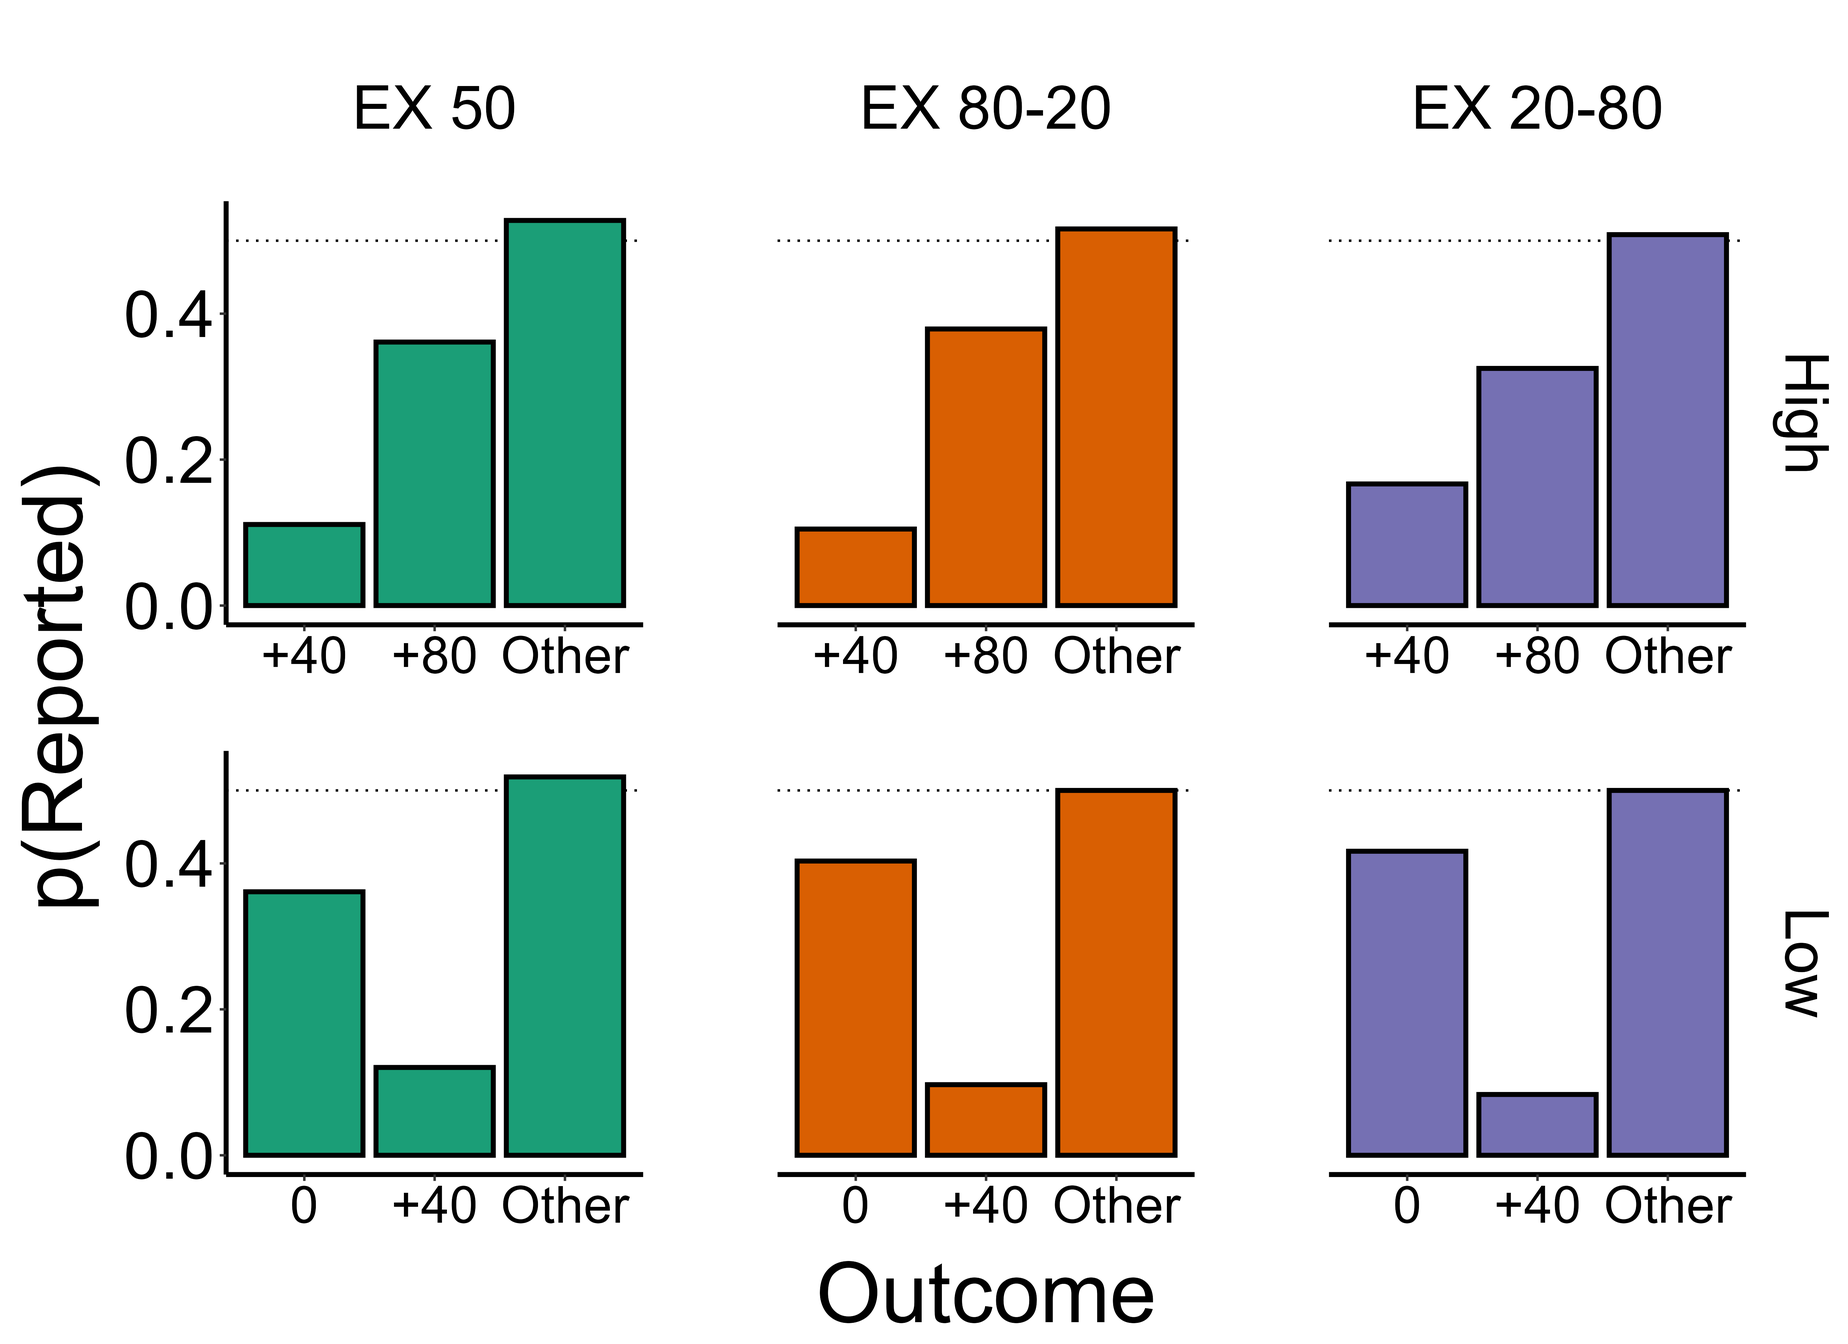
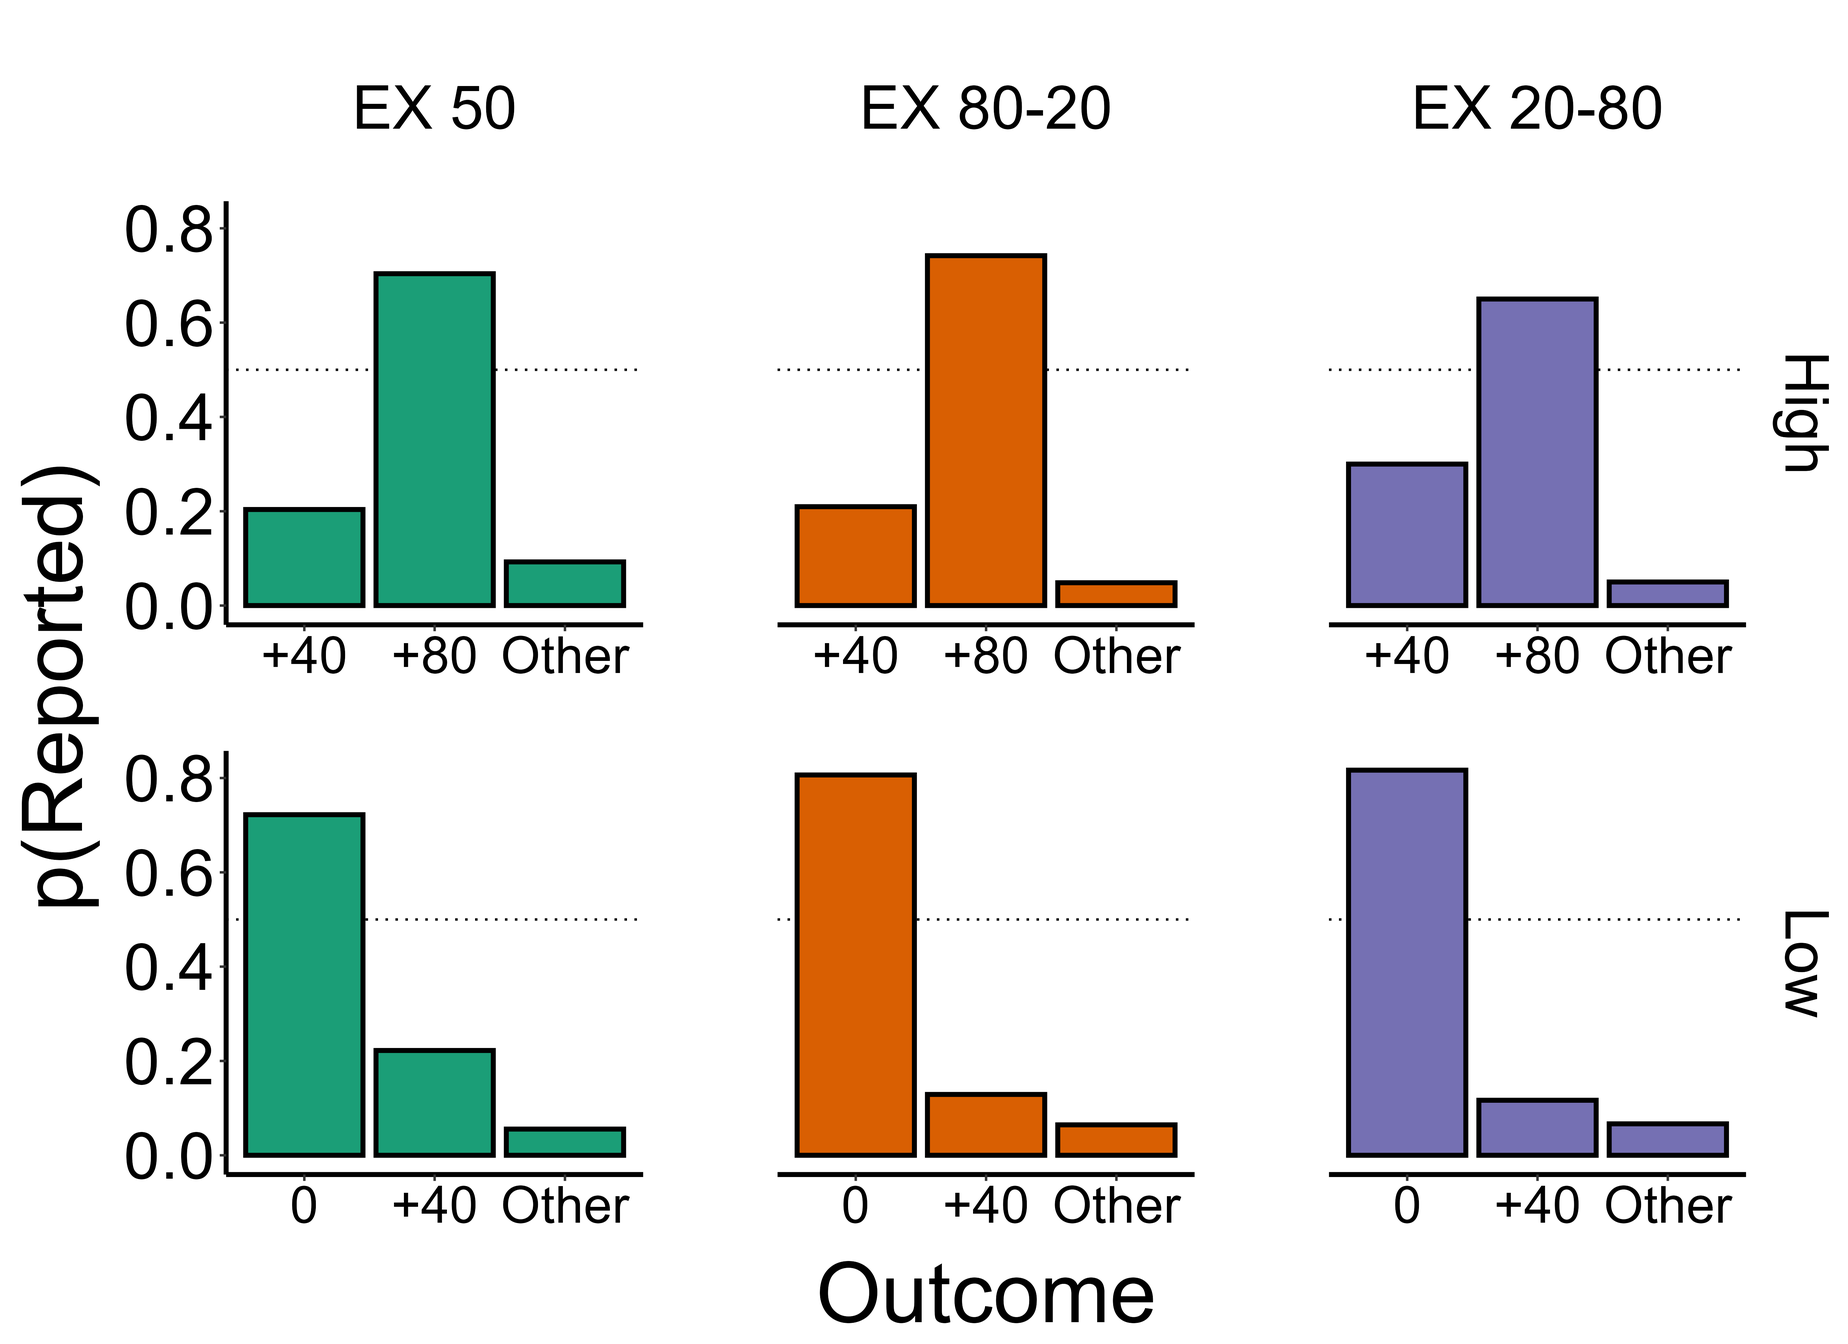
Removed fixed doors from first outcome judgements.

diff --git a/win-big-results-2024-07-16.html b/win-big-results-2024-07-16.html
@@ -2747,9 +2747,6 @@ Plot - Block means with 95% CIs
 <summary>
 Plot - Interaction plot with 95% CIs
 </summary>
-<ul>
-<li>Showing the combined effect of block 5 and 6.</li>
-</ul>
 <p><br></p>
 <p><svg id="svg_2b19707982898087ce18" width="100%" height="100%" class="svglite" viewBox="0 0 648.00 504.00">
 <defs>
@@ -2849,9 +2846,6 @@ Plot - Interaction plot with 95% CIs
 <summary>
 Main Effects
 </summary>
-<ul>
-<li>Note: Analysis was conducted on the results of block 5 and 6.</li>
-</ul>
 <h4>
 ANOVA Table
 </h4>
@@ -3035,9 +3029,6 @@ effect):</strong></p>
 <summary>
 Planned Comparisons
 </summary>
-<ul>
-<li>Note: Analysis was conducted on the results of block 5 and 6.</li>
-</ul>
 <h4>
 ANOVA Table
 </h4>
@@ -3249,6 +3240,8 @@ vs. Low):</strong></p>
 Notes
 </summary>
 <ul>
+<li>All plots and analyses are showing the combined effect of block 5
+and 6.</li>
 <li>Bayes Factors are reported as Inverse Bayes Factors, this means
 larger values indicate greater support for the effect. Anything less
 than 1 should be considered as contributing no evidence.</li>
@@ -3267,7 +3260,7 @@ than 1 should be considered as contributing no evidence.</li>
 Plot - Proportions
 </summary>
 <p><br></p>
-<p><svg id="svg_87735d77c41ec51b849d" width="100%" height="100%" class="svglite" viewBox="0 0 792.00 576.00">
+<p><svg id="svg_f47494b66cd92cdfc49c" width="100%" height="100%" class="svglite" viewBox="0 0 792.00 576.00">
 <defs>
   <style type="text/css">
     .svglite line, .svglite polyline, .svglite polygon, .svglite path, .svglite rect, .svglite circle {
@@ -3284,7 +3277,7 @@ Plot - Proportions
 </defs>
 <rect width="100%" height="100%" style="stroke: none; fill: #FFFFFF;" />
 <defs>
-  <clipPath id="svg_87735d77c41ec51b849d_cpMC4wMHw3OTIuMDB8MC4wMHw1NzYuMDA=">
+  <clipPath id="svg_f47494b66cd92cdfc49c_cpMC4wMHw3OTIuMDB8MC4wMHw1NzYuMDA=">
     <rect x="0.00" y="0.00" width="792.00" height="576.00" />
   </clipPath>
 </defs>
@@ -3292,91 +3285,91 @@ Plot - Proportions
 <rect x="0.00" y="0.00" width="792.00" height="576.00" style="stroke-width: 1.07; stroke: #FFFFFF; fill: #FFFFFF;" />
 </g>
 <defs>
-  <clipPath id="svg_87735d77c41ec51b849d_cpOTYuODZ8Mjc1LjYwfDg2LjI2fDI2Ny43NA==">
+  <clipPath id="svg_f47494b66cd92cdfc49c_cpOTYuODZ8Mjc1LjYwfDg2LjI2fDI2Ny43NA==">
     <rect x="96.86" y="86.26" width="178.73" height="181.48" />
   </clipPath>
 </defs>
 <g clip-path="url(#cpOTYuODZ8Mjc1LjYwfDg2LjI2fDI2Ny43NA==)">
 <rect x="96.86" y="86.26" width="178.73" height="181.48" style="stroke-width: 1.07; stroke: none; fill: #FFFFFF;" />
-<line x1="96.86" y1="103.19" x2="275.60" y2="103.19" style="stroke-width: 1.07; stroke-dasharray: 1.42,4.27; stroke-linecap: butt;"></line>
-<rect x="105.24" y="224.75" width="50.27" height="34.73" style="stroke-width: 2.13; stroke-linecap: butt; stroke-linejoin: miter; fill: #1B9E77;" />
-<rect x="161.10" y="146.60" width="50.27" height="112.88" style="stroke-width: 2.13; stroke-linecap: butt; stroke-linejoin: miter; fill: #1B9E77;" />
-<rect x="216.95" y="94.51" width="50.27" height="164.98" style="stroke-width: 2.13; stroke-linecap: butt; stroke-linejoin: miter; fill: #1B9E77;" />
+<line x1="96.86" y1="158.48" x2="275.60" y2="158.48" style="stroke-width: 1.07; stroke-dasharray: 1.42,4.27; stroke-linecap: butt;"></line>
+<rect x="105.24" y="218.33" width="50.27" height="41.15" style="stroke-width: 2.13; stroke-linecap: butt; stroke-linejoin: miter; fill: #1B9E77;" />
+<rect x="161.10" y="117.33" width="50.27" height="142.16" style="stroke-width: 2.13; stroke-linecap: butt; stroke-linejoin: miter; fill: #1B9E77;" />
+<rect x="216.95" y="240.78" width="50.27" height="18.71" style="stroke-width: 2.13; stroke-linecap: butt; stroke-linejoin: miter; fill: #1B9E77;" />
 </g>
 <g clip-path="url(#cpMC4wMHw3OTIuMDB8MC4wMHw1NzYuMDA=)">
 </g>
 <defs>
-  <clipPath id="svg_87735d77c41ec51b849d_cpMzMzLjIwfDUxMS45M3w4Ni4yNnwyNjcuNzQ=">
+  <clipPath id="svg_f47494b66cd92cdfc49c_cpMzMzLjIwfDUxMS45M3w4Ni4yNnwyNjcuNzQ=">
     <rect x="333.20" y="86.26" width="178.73" height="181.48" />
   </clipPath>
 </defs>
 <g clip-path="url(#cpMzMzLjIwfDUxMS45M3w4Ni4yNnwyNjcuNzQ=)">
 <rect x="333.20" y="86.26" width="178.73" height="181.48" style="stroke-width: 1.07; stroke: none; fill: #FFFFFF;" />
-<line x1="333.20" y1="103.19" x2="511.93" y2="103.19" style="stroke-width: 1.07; stroke-dasharray: 1.42,4.27; stroke-linecap: butt;"></line>
-<rect x="341.58" y="226.71" width="50.27" height="32.77" style="stroke-width: 2.13; stroke-linecap: butt; stroke-linejoin: miter; fill: #D95F02;" />
-<rect x="397.43" y="141.00" width="50.27" height="118.48" style="stroke-width: 2.13; stroke-linecap: butt; stroke-linejoin: miter; fill: #D95F02;" />
-<rect x="453.28" y="98.15" width="50.27" height="161.34" style="stroke-width: 2.13; stroke-linecap: butt; stroke-linejoin: miter; fill: #D95F02;" />
+<line x1="333.20" y1="158.48" x2="511.93" y2="158.48" style="stroke-width: 1.07; stroke-dasharray: 1.42,4.27; stroke-linecap: butt;"></line>
+<rect x="341.58" y="217.13" width="50.27" height="42.36" style="stroke-width: 2.13; stroke-linecap: butt; stroke-linejoin: miter; fill: #D95F02;" />
+<rect x="397.43" y="109.60" width="50.27" height="149.88" style="stroke-width: 2.13; stroke-linecap: butt; stroke-linejoin: miter; fill: #D95F02;" />
+<rect x="453.28" y="249.71" width="50.27" height="9.78" style="stroke-width: 2.13; stroke-linecap: butt; stroke-linejoin: miter; fill: #D95F02;" />
 </g>
 <g clip-path="url(#cpMC4wMHw3OTIuMDB8MC4wMHw1NzYuMDA=)">
 </g>
 <defs>
-  <clipPath id="svg_87735d77c41ec51b849d_cpNTY5LjUzfDc0OC4yNnw4Ni4yNnwyNjcuNzQ=">
+  <clipPath id="svg_f47494b66cd92cdfc49c_cpNTY5LjUzfDc0OC4yNnw4Ni4yNnwyNjcuNzQ=">
     <rect x="569.53" y="86.26" width="178.73" height="181.48" />
   </clipPath>
 </defs>
 <g clip-path="url(#cpNTY5LjUzfDc0OC4yNnw4Ni4yNnwyNjcuNzQ=)">
 <rect x="569.53" y="86.26" width="178.73" height="181.48" style="stroke-width: 1.07; stroke: none; fill: #FFFFFF;" />
-<line x1="569.53" y1="103.19" x2="748.26" y2="103.19" style="stroke-width: 1.07; stroke-dasharray: 1.42,4.27; stroke-linecap: butt;"></line>
-<rect x="577.91" y="207.39" width="50.27" height="52.10" style="stroke-width: 2.13; stroke-linecap: butt; stroke-linejoin: miter; fill: #7570B3;" />
-<rect x="633.76" y="157.89" width="50.27" height="101.59" style="stroke-width: 2.13; stroke-linecap: butt; stroke-linejoin: miter; fill: #7570B3;" />
-<rect x="689.62" y="100.58" width="50.27" height="158.90" style="stroke-width: 2.13; stroke-linecap: butt; stroke-linejoin: miter; fill: #7570B3;" />
+<line x1="569.53" y1="158.48" x2="748.26" y2="158.48" style="stroke-width: 1.07; stroke-dasharray: 1.42,4.27; stroke-linecap: butt;"></line>
+<rect x="577.91" y="198.88" width="50.27" height="60.61" style="stroke-width: 2.13; stroke-linecap: butt; stroke-linejoin: miter; fill: #7570B3;" />
+<rect x="633.76" y="128.18" width="50.27" height="131.31" style="stroke-width: 2.13; stroke-linecap: butt; stroke-linejoin: miter; fill: #7570B3;" />
+<rect x="689.62" y="249.39" width="50.27" height="10.10" style="stroke-width: 2.13; stroke-linecap: butt; stroke-linejoin: miter; fill: #7570B3;" />
 </g>
 <g clip-path="url(#cpMC4wMHw3OTIuMDB8MC4wMHw1NzYuMDA=)">
 </g>
 <defs>
-  <clipPath id="svg_87735d77c41ec51b849d_cpOTYuODZ8Mjc1LjYwfDMyMS44Nnw1MDMuMzQ=">
+  <clipPath id="svg_f47494b66cd92cdfc49c_cpOTYuODZ8Mjc1LjYwfDMyMS44Nnw1MDMuMzQ=">
     <rect x="96.86" y="321.86" width="178.73" height="181.48" />
   </clipPath>
 </defs>
 <g clip-path="url(#cpOTYuODZ8Mjc1LjYwfDMyMS44Nnw1MDMuMzQ=)">
 <rect x="96.86" y="321.86" width="178.73" height="181.48" style="stroke-width: 1.07; stroke: none; fill: #FFFFFF;" />
-<line x1="96.86" y1="338.79" x2="275.60" y2="338.79" style="stroke-width: 1.07; stroke-dasharray: 1.42,4.27; stroke-linecap: butt;"></line>
-<rect x="161.10" y="457.46" width="50.27" height="37.63" style="stroke-width: 2.13; stroke-linecap: butt; stroke-linejoin: miter; fill: #1B9E77;" />
-<rect x="105.24" y="382.21" width="50.27" height="112.88" style="stroke-width: 2.13; stroke-linecap: butt; stroke-linejoin: miter; fill: #1B9E77;" />
-<rect x="216.95" y="333.00" width="50.27" height="162.09" style="stroke-width: 2.13; stroke-linecap: butt; stroke-linejoin: miter; fill: #1B9E77;" />
+<line x1="96.86" y1="394.08" x2="275.60" y2="394.08" style="stroke-width: 1.07; stroke-dasharray: 1.42,4.27; stroke-linecap: butt;"></line>
+<rect x="161.10" y="450.20" width="50.27" height="44.89" style="stroke-width: 2.13; stroke-linecap: butt; stroke-linejoin: miter; fill: #1B9E77;" />
+<rect x="105.24" y="349.19" width="50.27" height="145.90" style="stroke-width: 2.13; stroke-linecap: butt; stroke-linejoin: miter; fill: #1B9E77;" />
+<rect x="216.95" y="483.86" width="50.27" height="11.22" style="stroke-width: 2.13; stroke-linecap: butt; stroke-linejoin: miter; fill: #1B9E77;" />
 </g>
 <g clip-path="url(#cpMC4wMHw3OTIuMDB8MC4wMHw1NzYuMDA=)">
 </g>
 <defs>
-  <clipPath id="svg_87735d77c41ec51b849d_cpMzMzLjIwfDUxMS45M3wzMjEuODZ8NTAzLjM0">
+  <clipPath id="svg_f47494b66cd92cdfc49c_cpMzMzLjIwfDUxMS45M3wzMjEuODZ8NTAzLjM0">
     <rect x="333.20" y="321.86" width="178.73" height="181.48" />
   </clipPath>
 </defs>
 <g clip-path="url(#cpMzMzLjIwfDUxMS45M3wzMjEuODZ8NTAzLjM0)">
 <rect x="333.20" y="321.86" width="178.73" height="181.48" style="stroke-width: 1.07; stroke: none; fill: #FFFFFF;" />
-<line x1="333.20" y1="338.79" x2="511.93" y2="338.79" style="stroke-width: 1.07; stroke-dasharray: 1.42,4.27; stroke-linecap: butt;"></line>
-<rect x="397.43" y="464.84" width="50.27" height="30.25" style="stroke-width: 2.13; stroke-linecap: butt; stroke-linejoin: miter; fill: #D95F02;" />
-<rect x="341.58" y="369.04" width="50.27" height="126.05" style="stroke-width: 2.13; stroke-linecap: butt; stroke-linejoin: miter; fill: #D95F02;" />
-<rect x="453.28" y="338.79" width="50.27" height="156.30" style="stroke-width: 2.13; stroke-linecap: butt; stroke-linejoin: miter; fill: #D95F02;" />
+<line x1="333.20" y1="394.08" x2="511.93" y2="394.08" style="stroke-width: 1.07; stroke-dasharray: 1.42,4.27; stroke-linecap: butt;"></line>
+<rect x="397.43" y="469.02" width="50.27" height="26.07" style="stroke-width: 2.13; stroke-linecap: butt; stroke-linejoin: miter; fill: #D95F02;" />
+<rect x="341.58" y="332.17" width="50.27" height="162.92" style="stroke-width: 2.13; stroke-linecap: butt; stroke-linejoin: miter; fill: #D95F02;" />
+<rect x="453.28" y="482.05" width="50.27" height="13.03" style="stroke-width: 2.13; stroke-linecap: butt; stroke-linejoin: miter; fill: #D95F02;" />
 </g>
 <g clip-path="url(#cpMC4wMHw3OTIuMDB8MC4wMHw1NzYuMDA=)">
 </g>
 <defs>
-  <clipPath id="svg_87735d77c41ec51b849d_cpNTY5LjUzfDc0OC4yNnwzMjEuODZ8NTAzLjM0">
+  <clipPath id="svg_f47494b66cd92cdfc49c_cpNTY5LjUzfDc0OC4yNnwzMjEuODZ8NTAzLjM0">
     <rect x="569.53" y="321.86" width="178.73" height="181.48" />
   </clipPath>
 </defs>
 <g clip-path="url(#cpNTY5LjUzfDc0OC4yNnwzMjEuODZ8NTAzLjM0)">
 <rect x="569.53" y="321.86" width="178.73" height="181.48" style="stroke-width: 1.07; stroke: none; fill: #FFFFFF;" />
-<line x1="569.53" y1="338.79" x2="748.26" y2="338.79" style="stroke-width: 1.07; stroke-dasharray: 1.42,4.27; stroke-linecap: butt;"></line>
-<rect x="633.76" y="469.04" width="50.27" height="26.05" style="stroke-width: 2.13; stroke-linecap: butt; stroke-linejoin: miter; fill: #7570B3;" />
-<rect x="577.91" y="364.84" width="50.27" height="130.25" style="stroke-width: 2.13; stroke-linecap: butt; stroke-linejoin: miter; fill: #7570B3;" />
-<rect x="689.62" y="338.79" width="50.27" height="156.30" style="stroke-width: 2.13; stroke-linecap: butt; stroke-linejoin: miter; fill: #7570B3;" />
+<line x1="569.53" y1="394.08" x2="748.26" y2="394.08" style="stroke-width: 1.07; stroke-dasharray: 1.42,4.27; stroke-linecap: butt;"></line>
+<rect x="633.76" y="471.52" width="50.27" height="23.57" style="stroke-width: 2.13; stroke-linecap: butt; stroke-linejoin: miter; fill: #7570B3;" />
+<rect x="577.91" y="330.11" width="50.27" height="164.98" style="stroke-width: 2.13; stroke-linecap: butt; stroke-linejoin: miter; fill: #7570B3;" />
+<rect x="689.62" y="481.62" width="50.27" height="13.47" style="stroke-width: 2.13; stroke-linecap: butt; stroke-linejoin: miter; fill: #7570B3;" />
 </g>
 <g clip-path="url(#cpMC4wMHw3OTIuMDB8MC4wMHw1NzYuMDA=)">
 </g>
 <defs>
-  <clipPath id="svg_87735d77c41ec51b849d_cpOTYuODZ8Mjc1LjYwfDUuNDh8ODYuMjY=">
+  <clipPath id="svg_f47494b66cd92cdfc49c_cpOTYuODZ8Mjc1LjYwfDUuNDh8ODYuMjY=">
     <rect x="96.86" y="5.48" width="178.73" height="80.78" />
   </clipPath>
 </defs>
@@ -3387,7 +3380,7 @@ Plot - Proportions
 <g clip-path="url(#cpMC4wMHw3OTIuMDB8MC4wMHw1NzYuMDA=)">
 </g>
 <defs>
-  <clipPath id="svg_87735d77c41ec51b849d_cpMzMzLjIwfDUxMS45M3w1LjQ4fDg2LjI2">
+  <clipPath id="svg_f47494b66cd92cdfc49c_cpMzMzLjIwfDUxMS45M3w1LjQ4fDg2LjI2">
     <rect x="333.20" y="5.48" width="178.73" height="80.78" />
   </clipPath>
 </defs>
@@ -3398,7 +3391,7 @@ Plot - Proportions
 <g clip-path="url(#cpMC4wMHw3OTIuMDB8MC4wMHw1NzYuMDA=)">
 </g>
 <defs>
-  <clipPath id="svg_87735d77c41ec51b849d_cpNTY5LjUzfDc0OC4yNnw1LjQ4fDg2LjI2">
+  <clipPath id="svg_f47494b66cd92cdfc49c_cpNTY5LjUzfDc0OC4yNnw1LjQ4fDg2LjI2">
     <rect x="569.53" y="5.48" width="178.73" height="80.78" />
   </clipPath>
 </defs>
@@ -3409,7 +3402,7 @@ Plot - Proportions
 <g clip-path="url(#cpMC4wMHw3OTIuMDB8MC4wMHw1NzYuMDA=)">
 </g>
 <defs>
-  <clipPath id="svg_87735d77c41ec51b849d_cpNzQ4LjI2fDc4Ni41Mnw4Ni4yNnwyNjcuNzQ=">
+  <clipPath id="svg_f47494b66cd92cdfc49c_cpNzQ4LjI2fDc4Ni41Mnw4Ni4yNnwyNjcuNzQ=">
     <rect x="748.26" y="86.26" width="38.26" height="181.48" />
   </clipPath>
 </defs>
@@ -3420,7 +3413,7 @@ Plot - Proportions
 <g clip-path="url(#cpMC4wMHw3OTIuMDB8MC4wMHw1NzYuMDA=)">
 </g>
 <defs>
-  <clipPath id="svg_87735d77c41ec51b849d_cpNzQ4LjI2fDc4Ni41MnwzMjEuODZ8NTAzLjM0">
+  <clipPath id="svg_f47494b66cd92cdfc49c_cpNzQ4LjI2fDc4Ni41MnwzMjEuODZ8NTAzLjM0">
     <rect x="748.26" y="321.86" width="38.26" height="181.48" />
   </clipPath>
 </defs>
@@ -3473,18 +3466,26 @@ Plot - Proportions
 <text x="714.75" y="288.42" text-anchor="middle" style="font-size: 22.00px; font-family: &quot;Arial&quot;;" textLength="55.04px" lengthAdjust="spacingAndGlyphs">Other</text>
 <polyline points="96.86,267.74 96.86,86.26 " style="stroke-width: 2.13; stroke-linecap: butt;"></polyline>
 <text x="91.93" y="269.51" text-anchor="end" style="font-size: 28.00px; font-family: &quot;Arial&quot;;" textLength="38.92px" lengthAdjust="spacingAndGlyphs">0.0</text>
-<text x="91.93" y="206.99" text-anchor="end" style="font-size: 28.00px; font-family: &quot;Arial&quot;;" textLength="38.92px" lengthAdjust="spacingAndGlyphs">0.2</text>
-<text x="91.93" y="144.47" text-anchor="end" style="font-size: 28.00px; font-family: &quot;Arial&quot;;" textLength="38.92px" lengthAdjust="spacingAndGlyphs">0.4</text>
+<text x="91.93" y="229.11" text-anchor="end" style="font-size: 28.00px; font-family: &quot;Arial&quot;;" textLength="38.92px" lengthAdjust="spacingAndGlyphs">0.2</text>
+<text x="91.93" y="188.70" text-anchor="end" style="font-size: 28.00px; font-family: &quot;Arial&quot;;" textLength="38.92px" lengthAdjust="spacingAndGlyphs">0.4</text>
+<text x="91.93" y="148.30" text-anchor="end" style="font-size: 28.00px; font-family: &quot;Arial&quot;;" textLength="38.92px" lengthAdjust="spacingAndGlyphs">0.6</text>
+<text x="91.93" y="107.89" text-anchor="end" style="font-size: 28.00px; font-family: &quot;Arial&quot;;" textLength="38.92px" lengthAdjust="spacingAndGlyphs">0.8</text>
 <polyline points="94.13,259.49 96.86,259.49 " style="stroke-width: 1.07; stroke: #333333; stroke-linecap: butt;"></polyline>
-<polyline points="94.13,196.97 96.86,196.97 " style="stroke-width: 1.07; stroke: #333333; stroke-linecap: butt;"></polyline>
-<polyline points="94.13,134.45 96.86,134.45 " style="stroke-width: 1.07; stroke: #333333; stroke-linecap: butt;"></polyline>
+<polyline points="94.13,219.08 96.86,219.08 " style="stroke-width: 1.07; stroke: #333333; stroke-linecap: butt;"></polyline>
+<polyline points="94.13,178.68 96.86,178.68 " style="stroke-width: 1.07; stroke: #333333; stroke-linecap: butt;"></polyline>
+<polyline points="94.13,138.28 96.86,138.28 " style="stroke-width: 1.07; stroke: #333333; stroke-linecap: butt;"></polyline>
+<polyline points="94.13,97.87 96.86,97.87 " style="stroke-width: 1.07; stroke: #333333; stroke-linecap: butt;"></polyline>
 <polyline points="96.86,503.34 96.86,321.86 " style="stroke-width: 2.13; stroke-linecap: butt;"></polyline>
 <text x="91.93" y="505.11" text-anchor="end" style="font-size: 28.00px; font-family: &quot;Arial&quot;;" textLength="38.92px" lengthAdjust="spacingAndGlyphs">0.0</text>
-<text x="91.93" y="442.59" text-anchor="end" style="font-size: 28.00px; font-family: &quot;Arial&quot;;" textLength="38.92px" lengthAdjust="spacingAndGlyphs">0.2</text>
-<text x="91.93" y="380.07" text-anchor="end" style="font-size: 28.00px; font-family: &quot;Arial&quot;;" textLength="38.92px" lengthAdjust="spacingAndGlyphs">0.4</text>
+<text x="91.93" y="464.71" text-anchor="end" style="font-size: 28.00px; font-family: &quot;Arial&quot;;" textLength="38.92px" lengthAdjust="spacingAndGlyphs">0.2</text>
+<text x="91.93" y="424.30" text-anchor="end" style="font-size: 28.00px; font-family: &quot;Arial&quot;;" textLength="38.92px" lengthAdjust="spacingAndGlyphs">0.4</text>
+<text x="91.93" y="383.90" text-anchor="end" style="font-size: 28.00px; font-family: &quot;Arial&quot;;" textLength="38.92px" lengthAdjust="spacingAndGlyphs">0.6</text>
+<text x="91.93" y="343.50" text-anchor="end" style="font-size: 28.00px; font-family: &quot;Arial&quot;;" textLength="38.92px" lengthAdjust="spacingAndGlyphs">0.8</text>
 <polyline points="94.13,495.09 96.86,495.09 " style="stroke-width: 1.07; stroke: #333333; stroke-linecap: butt;"></polyline>
-<polyline points="94.13,432.57 96.86,432.57 " style="stroke-width: 1.07; stroke: #333333; stroke-linecap: butt;"></polyline>
-<polyline points="94.13,370.05 96.86,370.05 " style="stroke-width: 1.07; stroke: #333333; stroke-linecap: butt;"></polyline>
+<polyline points="94.13,454.68 96.86,454.68 " style="stroke-width: 1.07; stroke: #333333; stroke-linecap: butt;"></polyline>
+<polyline points="94.13,414.28 96.86,414.28 " style="stroke-width: 1.07; stroke: #333333; stroke-linecap: butt;"></polyline>
+<polyline points="94.13,373.88 96.86,373.88 " style="stroke-width: 1.07; stroke: #333333; stroke-linecap: butt;"></polyline>
+<polyline points="94.13,333.47 96.86,333.47 " style="stroke-width: 1.07; stroke: #333333; stroke-linecap: butt;"></polyline>
 <text x="422.56" y="566.73" text-anchor="middle" style="font-size: 36.00px; font-family: &quot;Arial&quot;;" textLength="146.06px" lengthAdjust="spacingAndGlyphs">Outcome</text>
 <text transform="translate(35.05,294.80) rotate(-90)" text-anchor="middle" style="font-size: 36.00px; font-family: &quot;Arial&quot;;" textLength="192.10px" lengthAdjust="spacingAndGlyphs">p(Reported)</text>
 </g>
@@ -3494,7 +3495,6 @@ Plot - Proportions
 <li>Proportions are taken within condition and context (high/low). E.g.,
 All the green bars in the top left sum to 1, all the orange bars in the
 top middle sum to 1, and so on.</li>
-<li>The colour palette is colourblind friendly.</li>
 <li>Since non-numeric responses were permissible by the experiment’s
 program, data was filtered to remove all non-numeric inputs. If a
 participant’s inputs had a cumulative sum less than 20 or greater than
